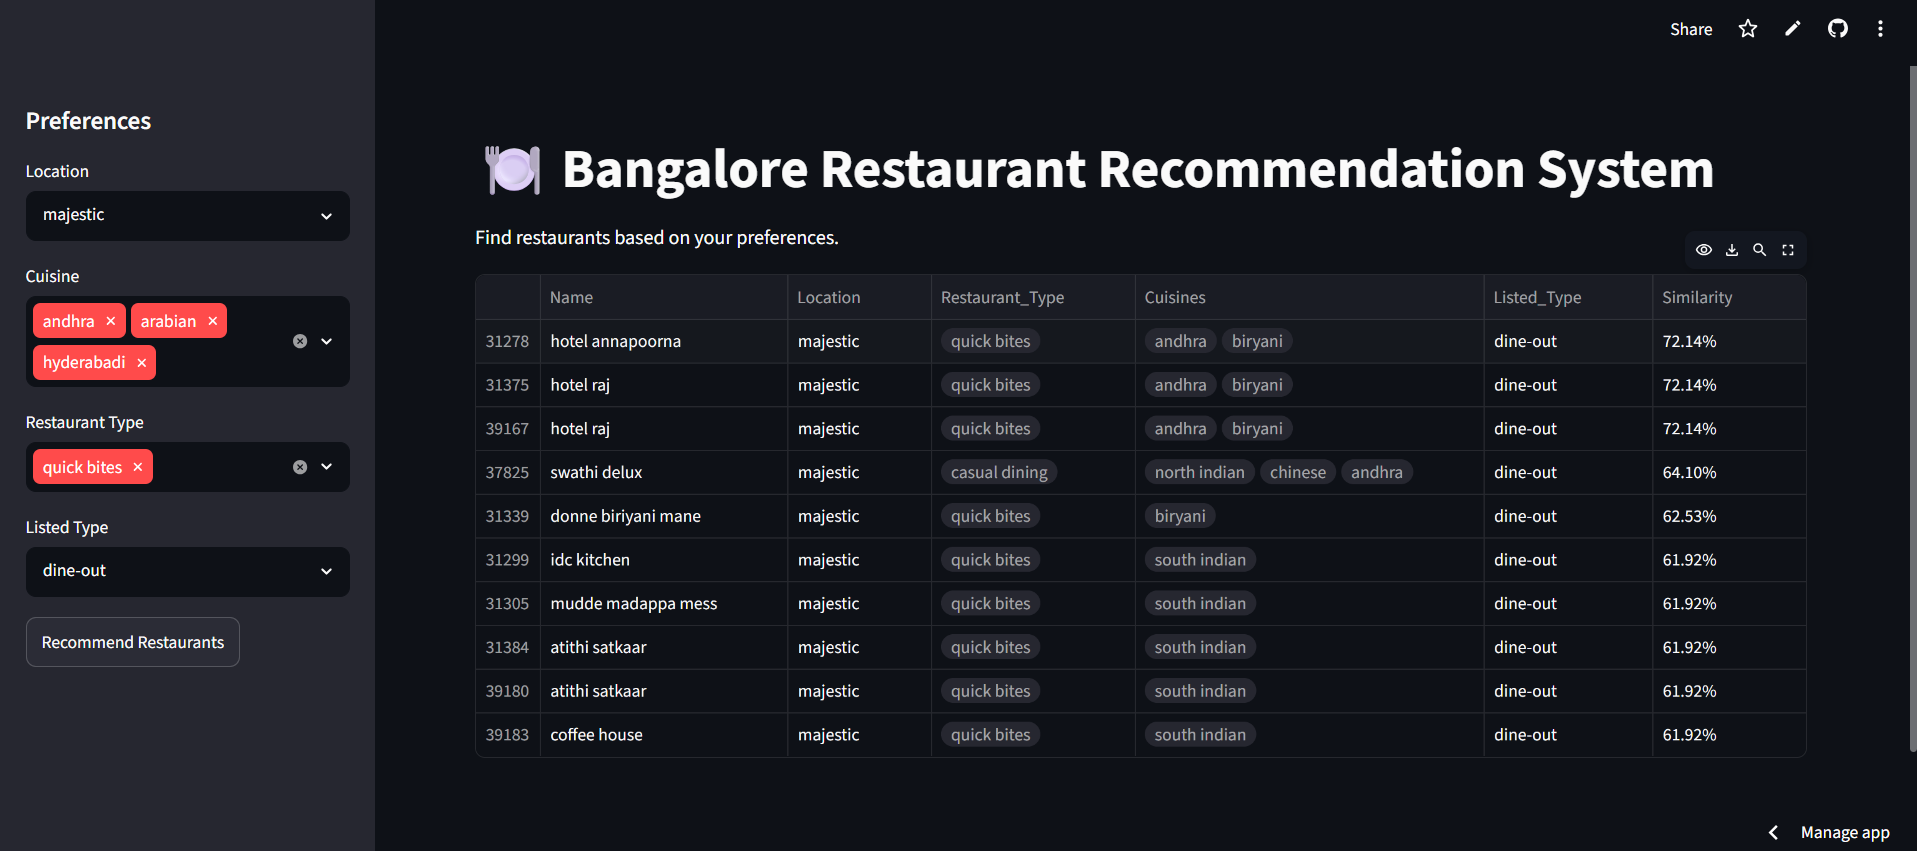
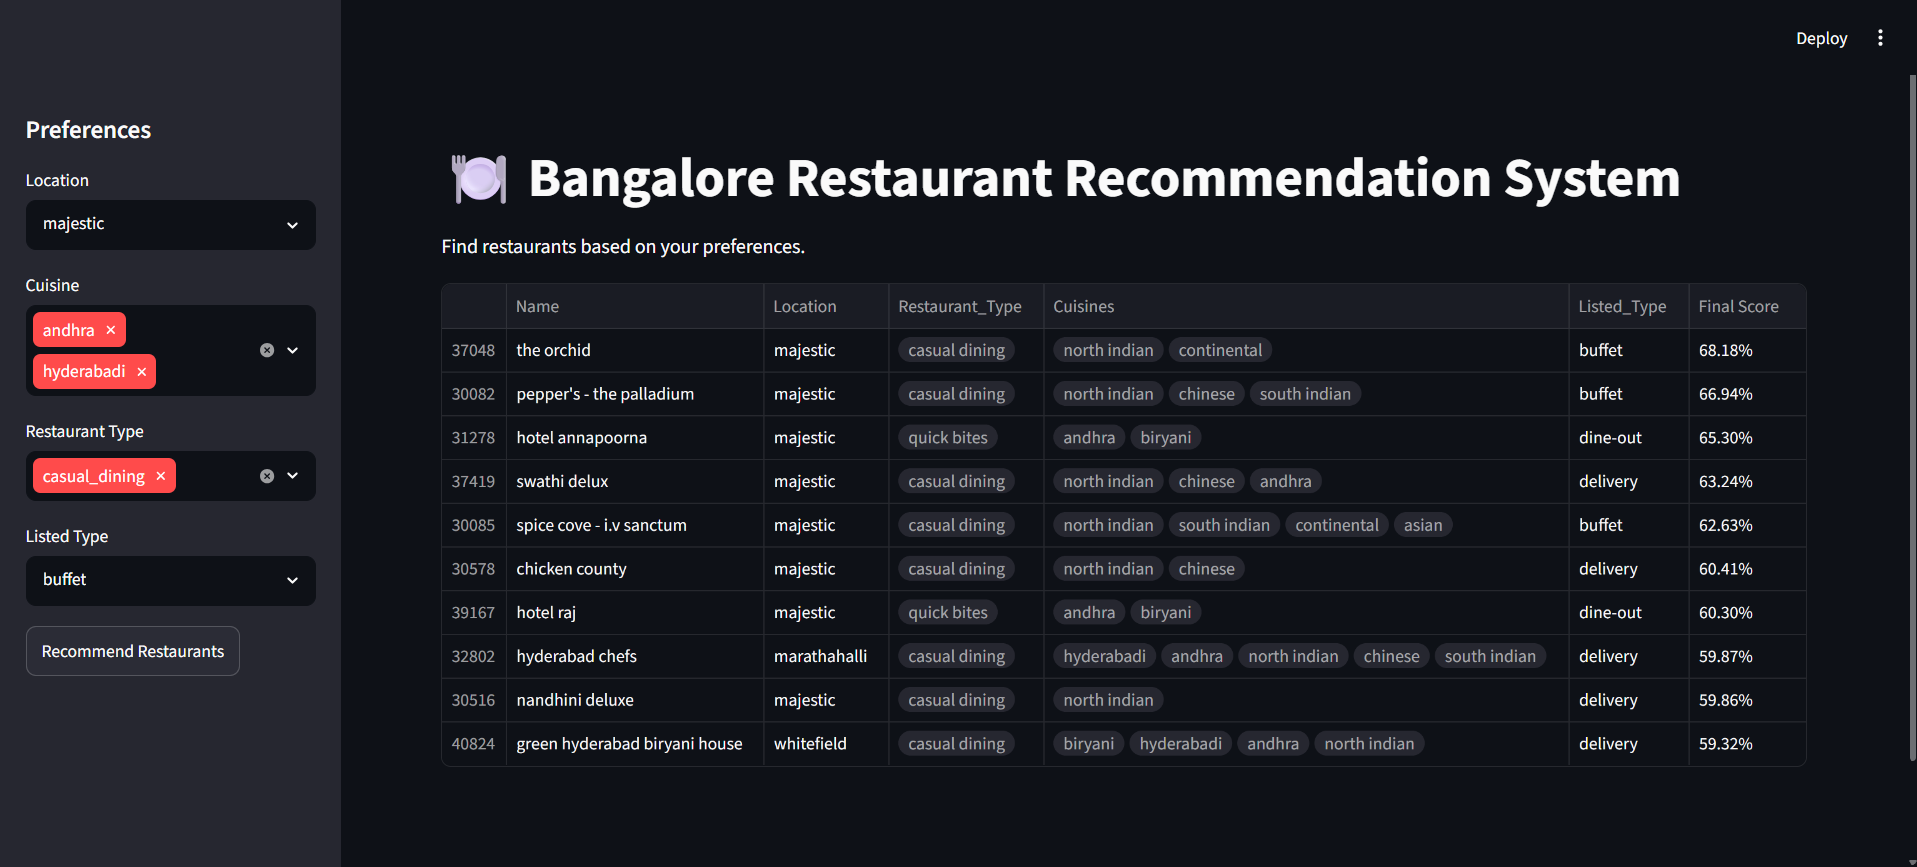
Update README

diff --git a/README.md b/README.md
@@ -13,6 +13,9 @@ Built with **Python**, **Scikit-learn**, **Pandas**, and **Streamlit**.
 - Cosine Similarity for finding similar restaurants
 - Interactive Streamlit interface
 - Support for multiple cuisines and restaurant types
+- Feature Aware Tokenization
+- Preserving multi-word features during vectorization
+- Improved recommendation ranking using restaurant ratings and votes
 
 ---
 
@@ -45,6 +48,7 @@ Bangalore-Restaurant-Recommender/
 
 - Python 3.12
 - Pandas
+- NumPy
 - Scikit-learn
 - Streamlit
 
@@ -52,7 +56,7 @@ Bangalore-Restaurant-Recommender/
 
 ## 🧹 Data Preprocessing
 
-The original Zomato Bangalore dataset was cleaned before building the recommendation system. The preprocessing steps include removing unnecessary columns, removing duplicate records, removing rows with missing values, cleaning text fields and converting multi-valued features into lists
+The original Zomato Bangalore dataset was cleaned by removing unnecessary columns, duplicate records, and rows with missing values. Text fields were normalized, and multi-valued features such as cuisines and restaurant types were split into lists for further processing.
 
 The final dataset contains the following features:
 
@@ -81,7 +85,11 @@ Each restaurant is converted into a text document by combining:
 Example:
 
 ```
-whitefield buffet casual dining north indian chinese
+location_whitefield
+listed_buffet
+type_casual_dining
+cuisine_north_indian
+cuisine_chinese
 ```
 
 These documents are then transformed into TF-IDF vectors.
@@ -96,13 +104,19 @@ These documents are then transformed into TF-IDF vectors.
     - Restaurant Type(s)
     - Listed Type
 
-2. User preferences are converted into a text document.
+2. User preferences are converted into a feature-aware document using prefixed tokens (e.g., location_whitefield, cuisine_north_indian).
 
-3. The document is transformed using the trained TF-IDF vectorizer.
+3. The document is transformed into a TF-IDF vector.
 
-4. Cosine Similarity is computed between the user's preference vector and every restaurant.
+4. Cosine similarity is computed between the user's preference vector and every restaurant.
 
-5. The restaurants with the highest similarity scores are returned.
+5. Restaurants are re-ranked using a weighted combination of similarity score, normalized rating, and normalized vote count.
+
+```text
+Final Score = 70% × Similarity Score
+            + 20% × Normalized Rating
+            + 10% × Normalized Vote Count
+```
 
 ---
 